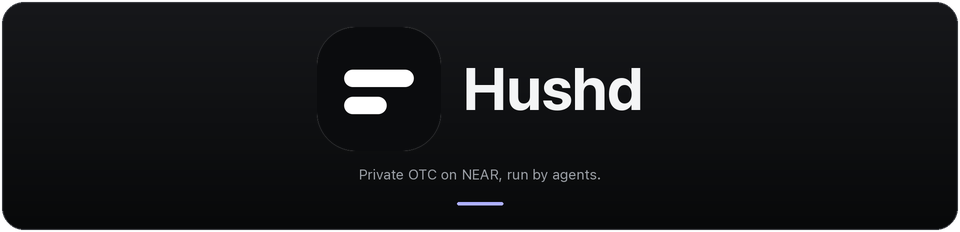
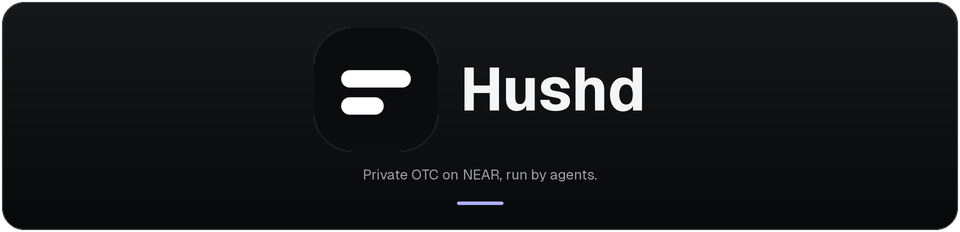
README art set in Geist

diff --git a/tools/make_readme_art.py b/tools/make_readme_art.py
@@ -13,8 +13,8 @@ Why it is built this way (each rule exists because the alternative was measured 
 - Translucent washes are pre-composited (`blend`): ImageDraw overwrites alpha.
 - Drawn at 2x and reduced with LANCZOS at 960 wide; canvas heights are even.
 - One `flow` pass feeds both measurement and drawing; gutters widen to fit arrow labels.
-- SF Pro is a variable font: weights are set on the Weight axis, and a missing font exits 2
-  rather than letting Pillow substitute one (a substitute invalidates every measurement).
+- Type is Geist, the app's own face, from node_modules (run `pnpm install` first); a missing
+  font exits 2 rather than letting Pillow substitute one (a substitute invalidates every measurement).
 """
 
 from __future__ import annotations
@@ -33,16 +33,17 @@ ROOT = Path(__file__).resolve().parent.parent
 OUT = ROOT / "assets" / "readme"
 MARK = ROOT / "app" / "src" / "app" / "icon.png"
 TOKENS = ROOT / "app" / "src" / "app" / "globals.css"
+# Geist, the app's own typeface (OFL), from the `geist` package the app already installs
+_GEIST = next(iter(sorted((ROOT / "node_modules" / ".pnpm").glob("geist@*/node_modules/geist/dist/fonts"))), ROOT / "missing-geist")
 FONTS = {
-    "sans": "/System/Library/Fonts/SFNS.ttf",
-    "mono": "/System/Library/Applications/Terminal.app/Contents/Resources/Fonts/SF-Mono-Regular.otf",
+    "regular": str(_GEIST / "geist-sans" / "Geist-Regular.ttf"),
+    "semibold": str(_GEIST / "geist-sans" / "Geist-SemiBold.ttf"),
+    "bold": str(_GEIST / "geist-sans" / "Geist-Bold.ttf"),
+    "mono": str(_GEIST / "geist-mono" / "GeistMono-Regular.ttf"),
 }
-if not Path(FONTS["mono"]).is_file():
-    FONTS["mono"] = "/System/Applications/Utilities/Terminal.app/Contents/Resources/Fonts/SF-Mono-Regular.otf"
 
 SCALE = 2
 FIGURE_WIDTH = 960
-WEIGHTS = {"regular": 400, "semibold": 590, "bold": 700}
 
 
 def px(value: float) -> int:
@@ -196,12 +197,7 @@ _font_cache: dict[tuple[str, int], ImageFont.FreeTypeFont] = {}
 def font(kind: str, size: int) -> ImageFont.FreeTypeFont:
     key = (kind, size)
     if key not in _font_cache:
-        if kind == "mono":
-            _font_cache[key] = ImageFont.truetype(FONTS["mono"], size * SCALE)
-        else:
-            f = ImageFont.truetype(FONTS["sans"], size * SCALE)
-            f.set_variation_by_axes([100, max(17, min(96, size)), 400, WEIGHTS[kind]])
-            _font_cache[key] = f
+        _font_cache[key] = ImageFont.truetype(FONTS[kind], size * SCALE)
     return _font_cache[key]
 
 
